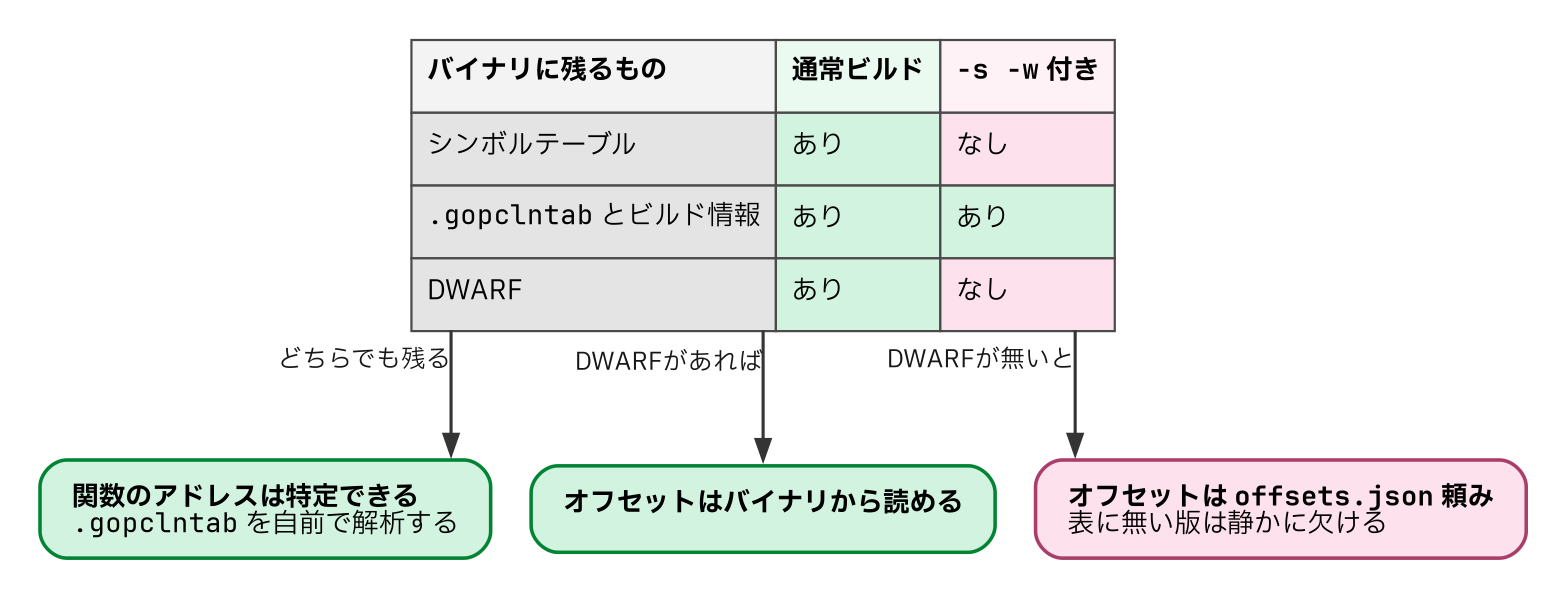
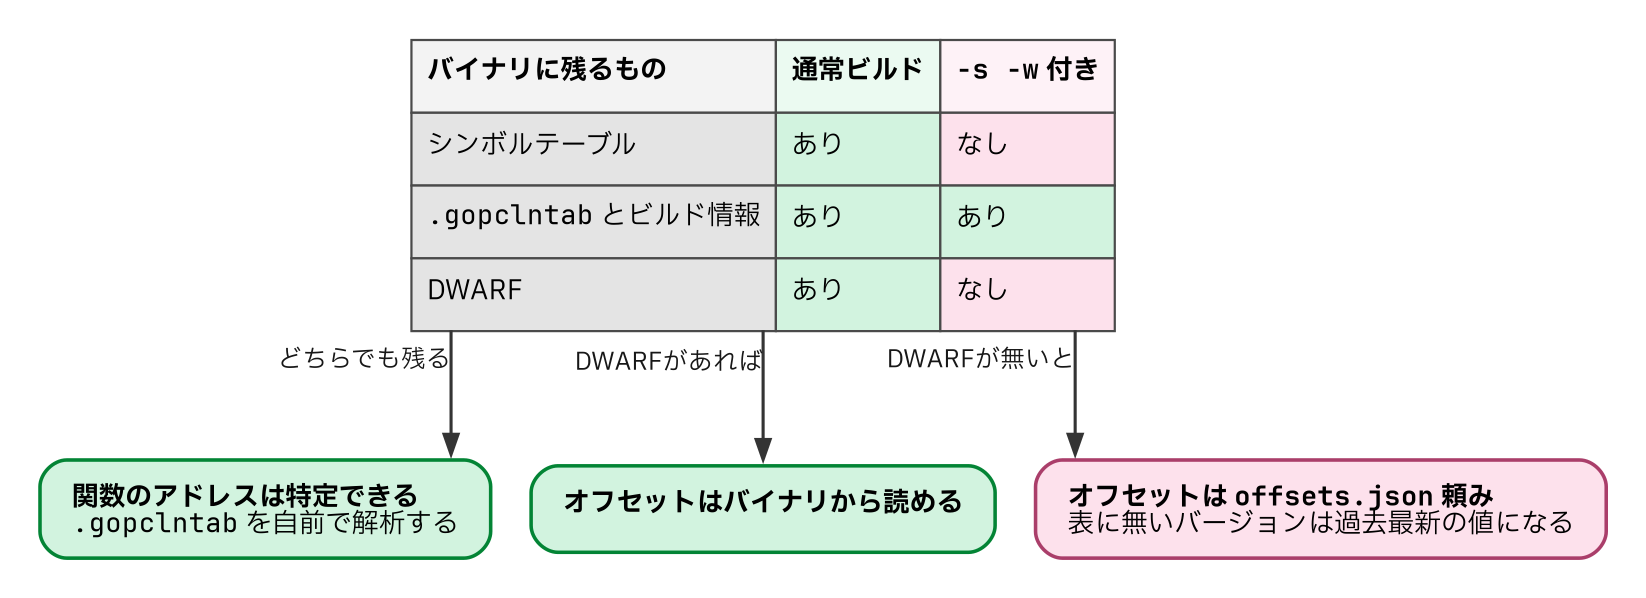
fix(go-ebpf-primer): 呼び出し規約の誤りを直し、図に「Cの規約で読むと」列を足す
登壇スライド側のレビューで見つかった修正を本書にも反映した。

- 45章: 「汎用のeBPFツールは引数がスタックにあると仮定して作られて
  いるので、スタックの決まった位置を読む」は誤り。Cの規約もレジスタで
  引数を渡すので、実際に起きるのは「レジスタの選び方が違うために
  別の引数の値を読む」こと。CはRDIから、GoはAXから割り当てるので、
  第1引数としてRDIを読むとGoの第4引数が返る。エラーもクラッシュも
  出ないので気づけない点も書き足した
- convention-stack-vs-register: 「Cの規約で読むと」列を足して、
  どのレジスタで何番目の引数と誤解されるかを図で示した
- probe-insertion / probe-insertion-uprobe: 差し替えがCoWでその
  プロセスのページだけに効くことを図に入れた。本文にはある説明が
  図に無かった
- build-flags: 「表に無い版は静かに欠ける」を「表に無いバージョンは
  過去最新の値になる」に直した。GetOffsetは対象バージョン以下で
  最新の記録を返すので、欠けるのではなく値が返る
- 20章・60章のキャプションを図の変更に合わせて更新した

diff --git a/books/go-ebpf-primer/45-hurdle2_abi.md b/books/go-ebpf-primer/45-hurdle2_abi.md
@@ -22,7 +22,9 @@ RAX, RBX, RCX, RDI, RSI, R8, R9, R10, R11
 
 この列に載るのは整数とポインタの引数です。9個を超える分やレジスタに収まらない大きな構造体はスタックに置かれ、浮動小数点の引数は2章で触れた浮動小数点用のレジスタ群で渡ります。本書がこの整数の列だけを見ていくのは、OBIが読む引数がポインタと整数しかないからです。計装の対象は `net/http` やgRPCの関数で、そこで受け渡されるのは構造体へのポインタ、文字列、整数です。あとで引用するOBIのマクロにも、浮動小数点用のレジスタを読むものは1つもありません。`RAX` と `AX` という表記の揺れについては、2章で断ったとおりです。
 
-この変更でGoの関数呼び出しは速くなりましたが、外から引数を読む側は、どの引数がどのレジスタに入るのかをアーキテクチャごとに知っていなければならなくなりました。汎用のeBPFツールは引数がスタックにあると仮定して作られているので、Goのバイナリに向けるとスタックの決まった位置を読み、そこにある無関係な値を引数として返します。
+この変更でGoの関数呼び出しは速くなりましたが、外から引数を読む側は、どの引数がどのレジスタに入るのかをアーキテクチャごとに知っていなければならなくなりました。汎用のeBPFツールは、Linuxの標準であるCの呼び出し規約を前提に作られています。Cもレジスタで引数を渡しますが、使うレジスタの選び方が違います。Cは `RDI, RSI, RDX, RCX, R8, R9` の順なので、第1引数として `RDI` を読みます。Goが `RDI` に入れているのは第4引数です。空でもゼロでもなく、別の引数の値がそこにあります。
+
+厄介なのは、間違えても何も起きないことです。ツールは正常に動き、値を返してきます。エラーもクラッシュも出ません。ただ中身が違うだけです。難所1のuretprobeはアプリが落ちるので気づけましたが、こちらは気づけません。
 
 [^regabi-arch]: Go 1.17でレジスタ渡しに切り替わったのはamd64だけです。arm64を含む他のアーキテクチャは、Go 1.18で切り替わりました。本書の記述はamd64を前提にしています。
 

diff --git a/books/go-ebpf-primer/20-function_call.md b/books/go-ebpf-primer/20-function_call.md
@@ -104,7 +104,7 @@ $ go tool objdump -s 'main\.double$' demo
 プラットフォームには標準の呼び出し規約があり、Linuxのamd64ならCのプログラムはみなそれに従います。外から観測する道具も、当然その標準を前提に作られています。Goがこの標準に従っていないことが、難所2の主題になります。
 
 ![スタック渡しとレジスタ渡し](/images/20260820-convention-stack-vs-register.png)
-*図3: 同じ `f(a, b, c)` の呼び出しでも、規約によって引数の置き場所が変わる。スタック渡しでは `CALL` が積んだ戻りアドレスの先、`SP+8` から引数が並ぶ。レジスタ渡しではスタックに引数が無く、どのレジスタに何番目の引数が入るかという対応を知らないと読めない。*
+*図3: 同じ `f(a, b, c)` の呼び出しでも、規約によって引数の置き場所が変わる。スタック渡しでは `CALL` が積んだ戻りアドレスの先、`SP+8` から引数が並ぶ。レジスタ渡しではスタックに引数が無く、Cの規約を前提に読むと第1引数として `RDI` を見るので、Goが第4引数用に使っているレジスタの値が返る。エラーにはならず、別の引数の値が読めてしまう。*
 
 ## インライン展開
 

diff --git a/books/go-ebpf-primer/60-for_go_developers.md b/books/go-ebpf-primer/60-for_go_developers.md
@@ -43,7 +43,7 @@ DWARF（型とフィールドの位置を含むデバッグ情報）とシンボ
 DWARFを残しておくと計装は堅くなります。`-w` を付けるかどうかは、配布サイズと計装の確実性のどちらを取るかという判断になります。
 
 ![ビルド設定と計装の関係](/images/20260820-build-flags.png)
-*図1: 矢印は、バイナリに何が残るかが計装のどこに影響するかを表す（原因から結果へ）。`-s -w` を付けるとDWARFとシンボルテーブルが落ちる。`.gopclntab` は残るので関数のアドレスは特定できるが、オフセットの解決は `offsets.json` 頼みになる。*
+*図1: 矢印は、バイナリに何が残るかが計装のどこに影響するかを表す（原因から結果へ）。`-s -w` を付けるとDWARFとシンボルテーブルが落ちる。`.gopclntab` は残るので関数のアドレスは特定できるが、オフセットの解決は `offsets.json` 頼みになる。表に載っていないバージョンでも検索は拒否されず、そのバージョン以下で最新の記録が返る。*
 
 ## インライン展開で消える計装点
 
